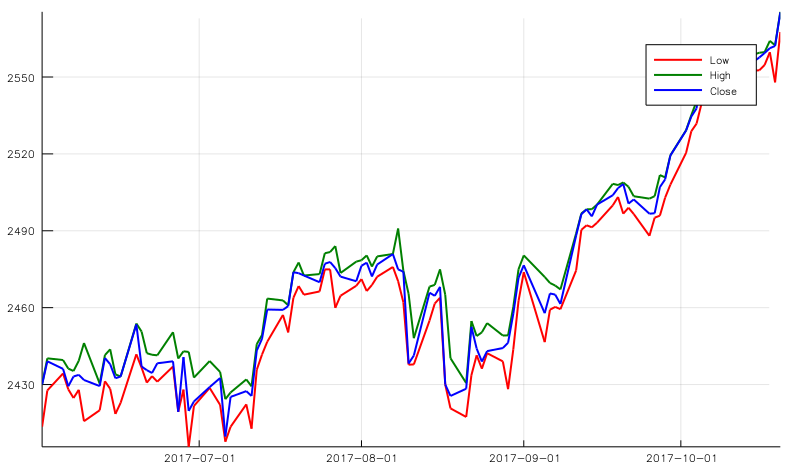
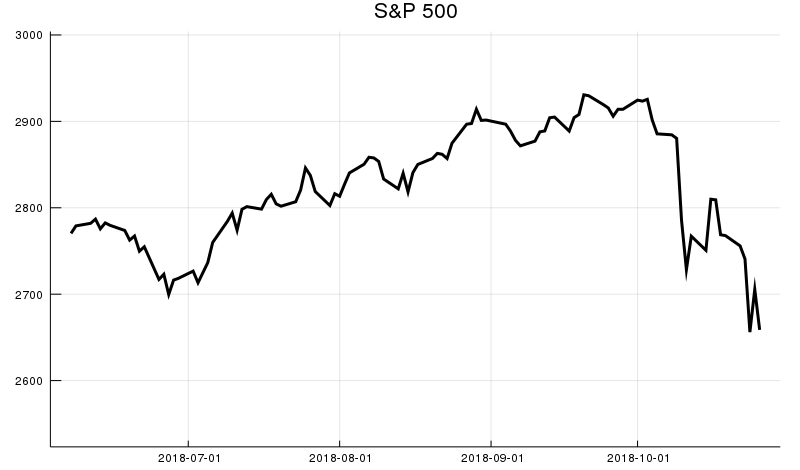
Update documentation

diff --git a/README.md b/README.md
@@ -22,7 +22,7 @@ The Alpha Vantage API requires a [free API key](https://www.alphavantage.co/supp
 ```julia
 # AlphaVantage.jl is not currently registered as an official package
 # Please install the development version from GitHub:
-Pkg.clone("git://GitHub.com/ellisvalentiner/AlphaVantage.jl")
+pkg> add git://github.com:ellisvalentiner/AlphaVantage.jl#master
 ```
 
 If you encounter a clear bug, please file a minimal reproducible example on GitHub.
@@ -32,19 +32,27 @@ If you encounter a clear bug, please file a minimal reproducible example on GitH
 ```julia
 using AlphaVantage
 using DataFrames
-using StatPlots
+using Dates
+using Plots
 gr(size=(800,470))
 # Get daily S&P 500 data
 gspc = time_series_daily("^GSPC", datatype="csv");
 # Convert to a DataFrame
-data = DataFrame(gspc[2:end, :]);
+data = DataFrame(gspc[1]);
 # Add column names
-names!(data, convert.(Symbol, gspc[1,:]));
+names!(data, Symbol.(gspc[2])[1,:]);
 # Convert timestamp column to Date type
 data[:timestamp] = Dates.Date.(data[:timestamp]);
 # Plot the timeseries
-@df data plot(:timestamp, [:low :high :close], label=["Low" "High" "Close"],
-              colour=["#A2A6A5", "#F68E5B", "#B47E6E"], w=2)
+plot(
+  data[:timestamp],
+  data[:close],
+  title="S&P 500",
+  lw=3,
+  labels="",
+  color=:black,
+  ylims=(minimum(data[:close])*0.95, maximum(data[:close])*1.025)
+)
 savefig("sp500.png")
 ```
 
